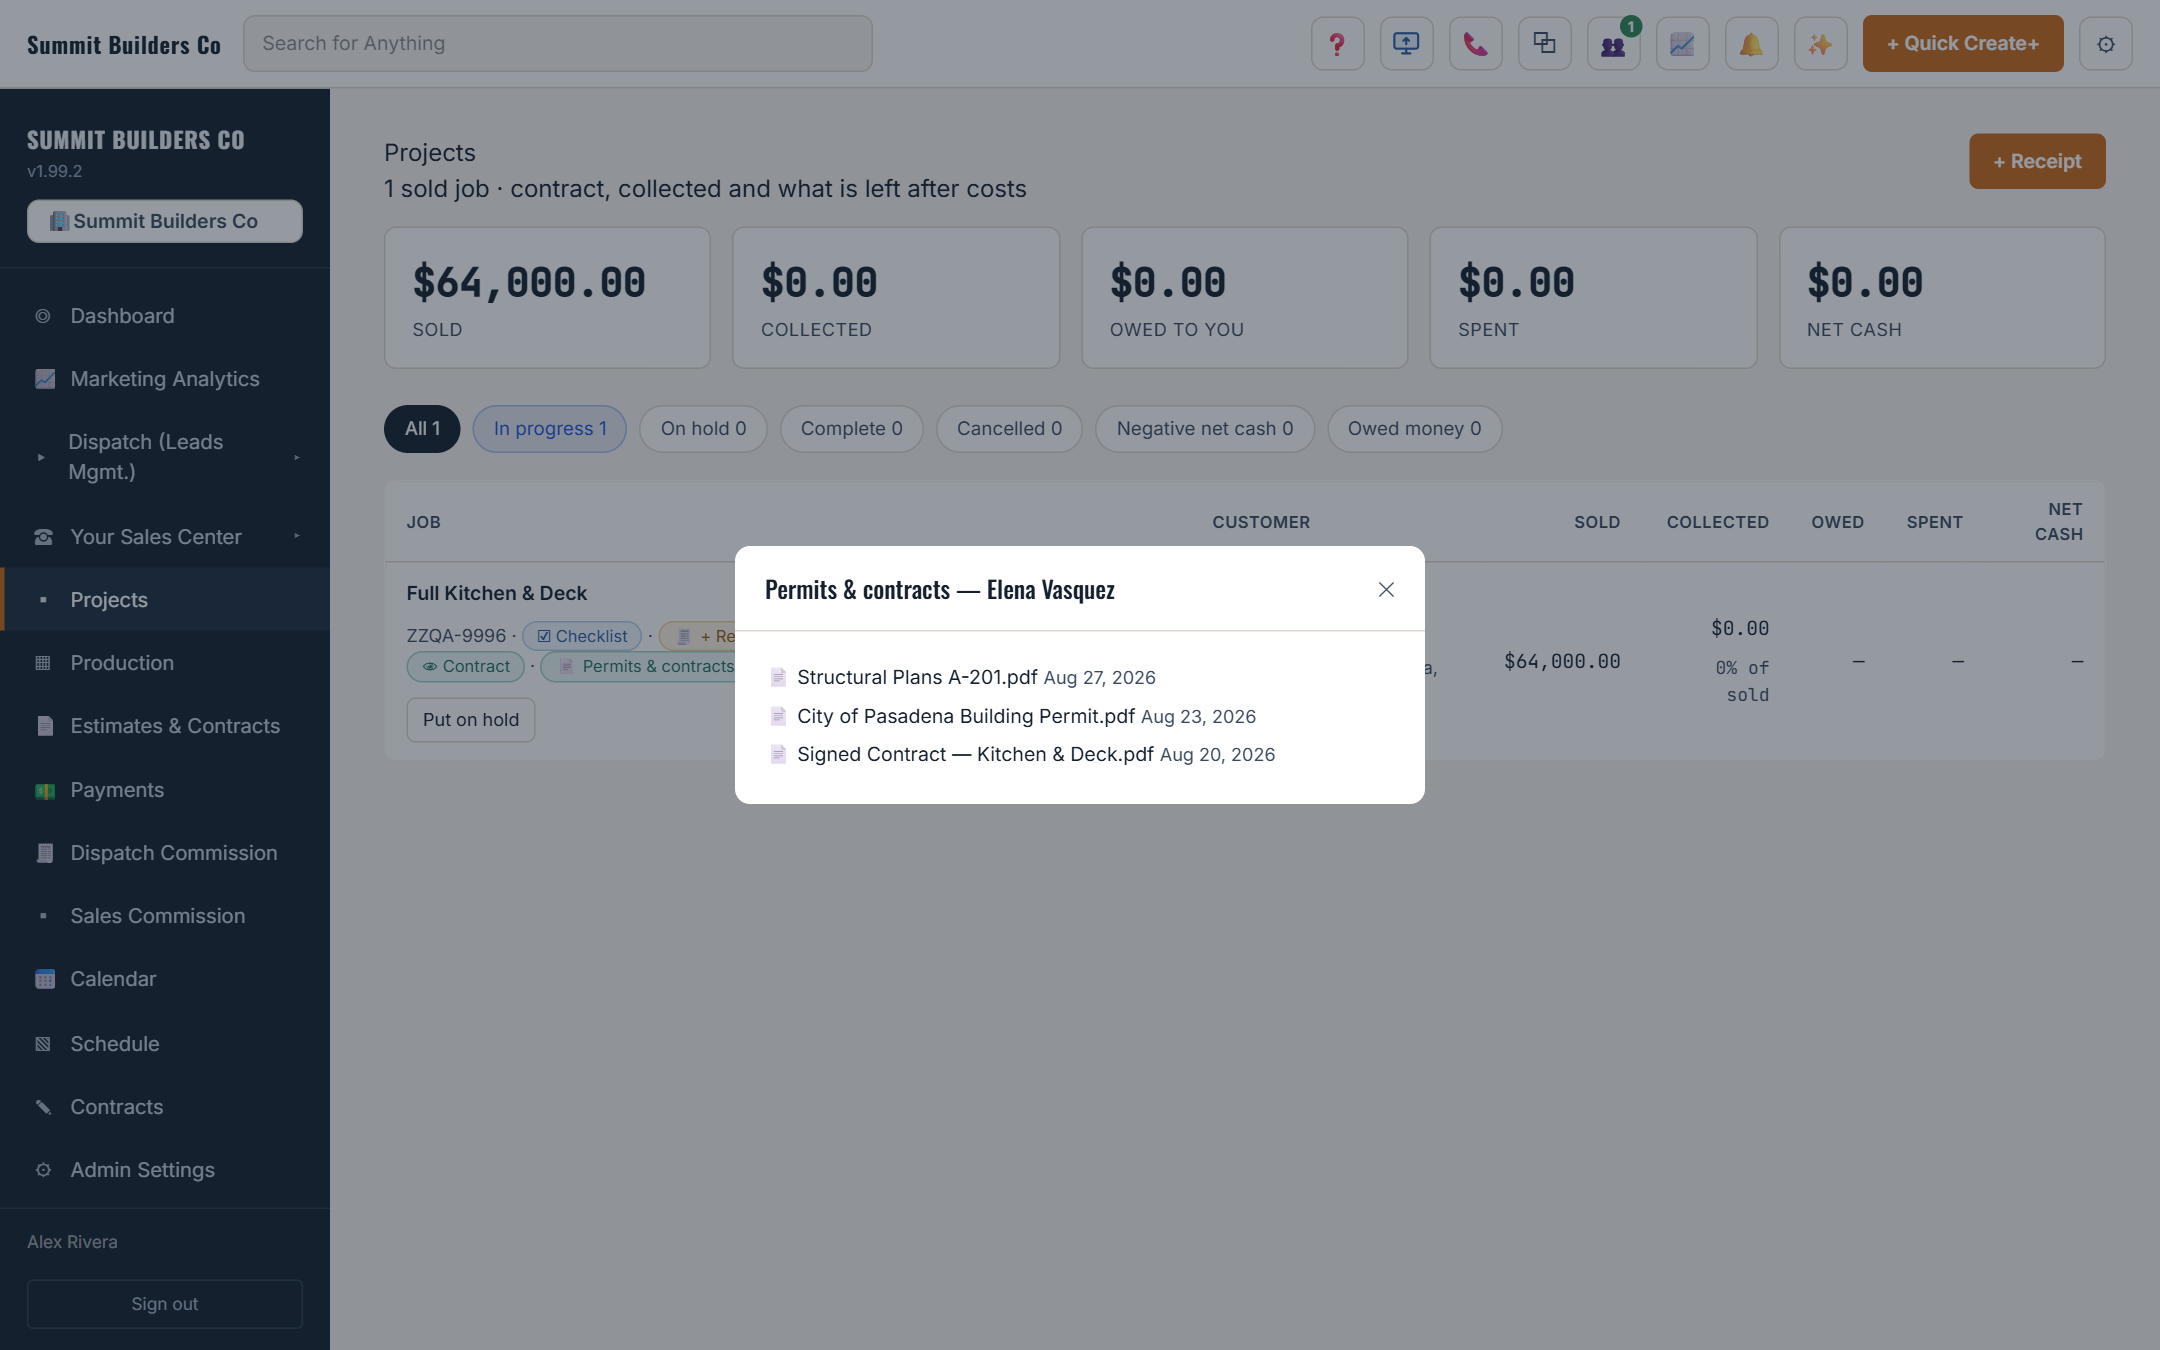
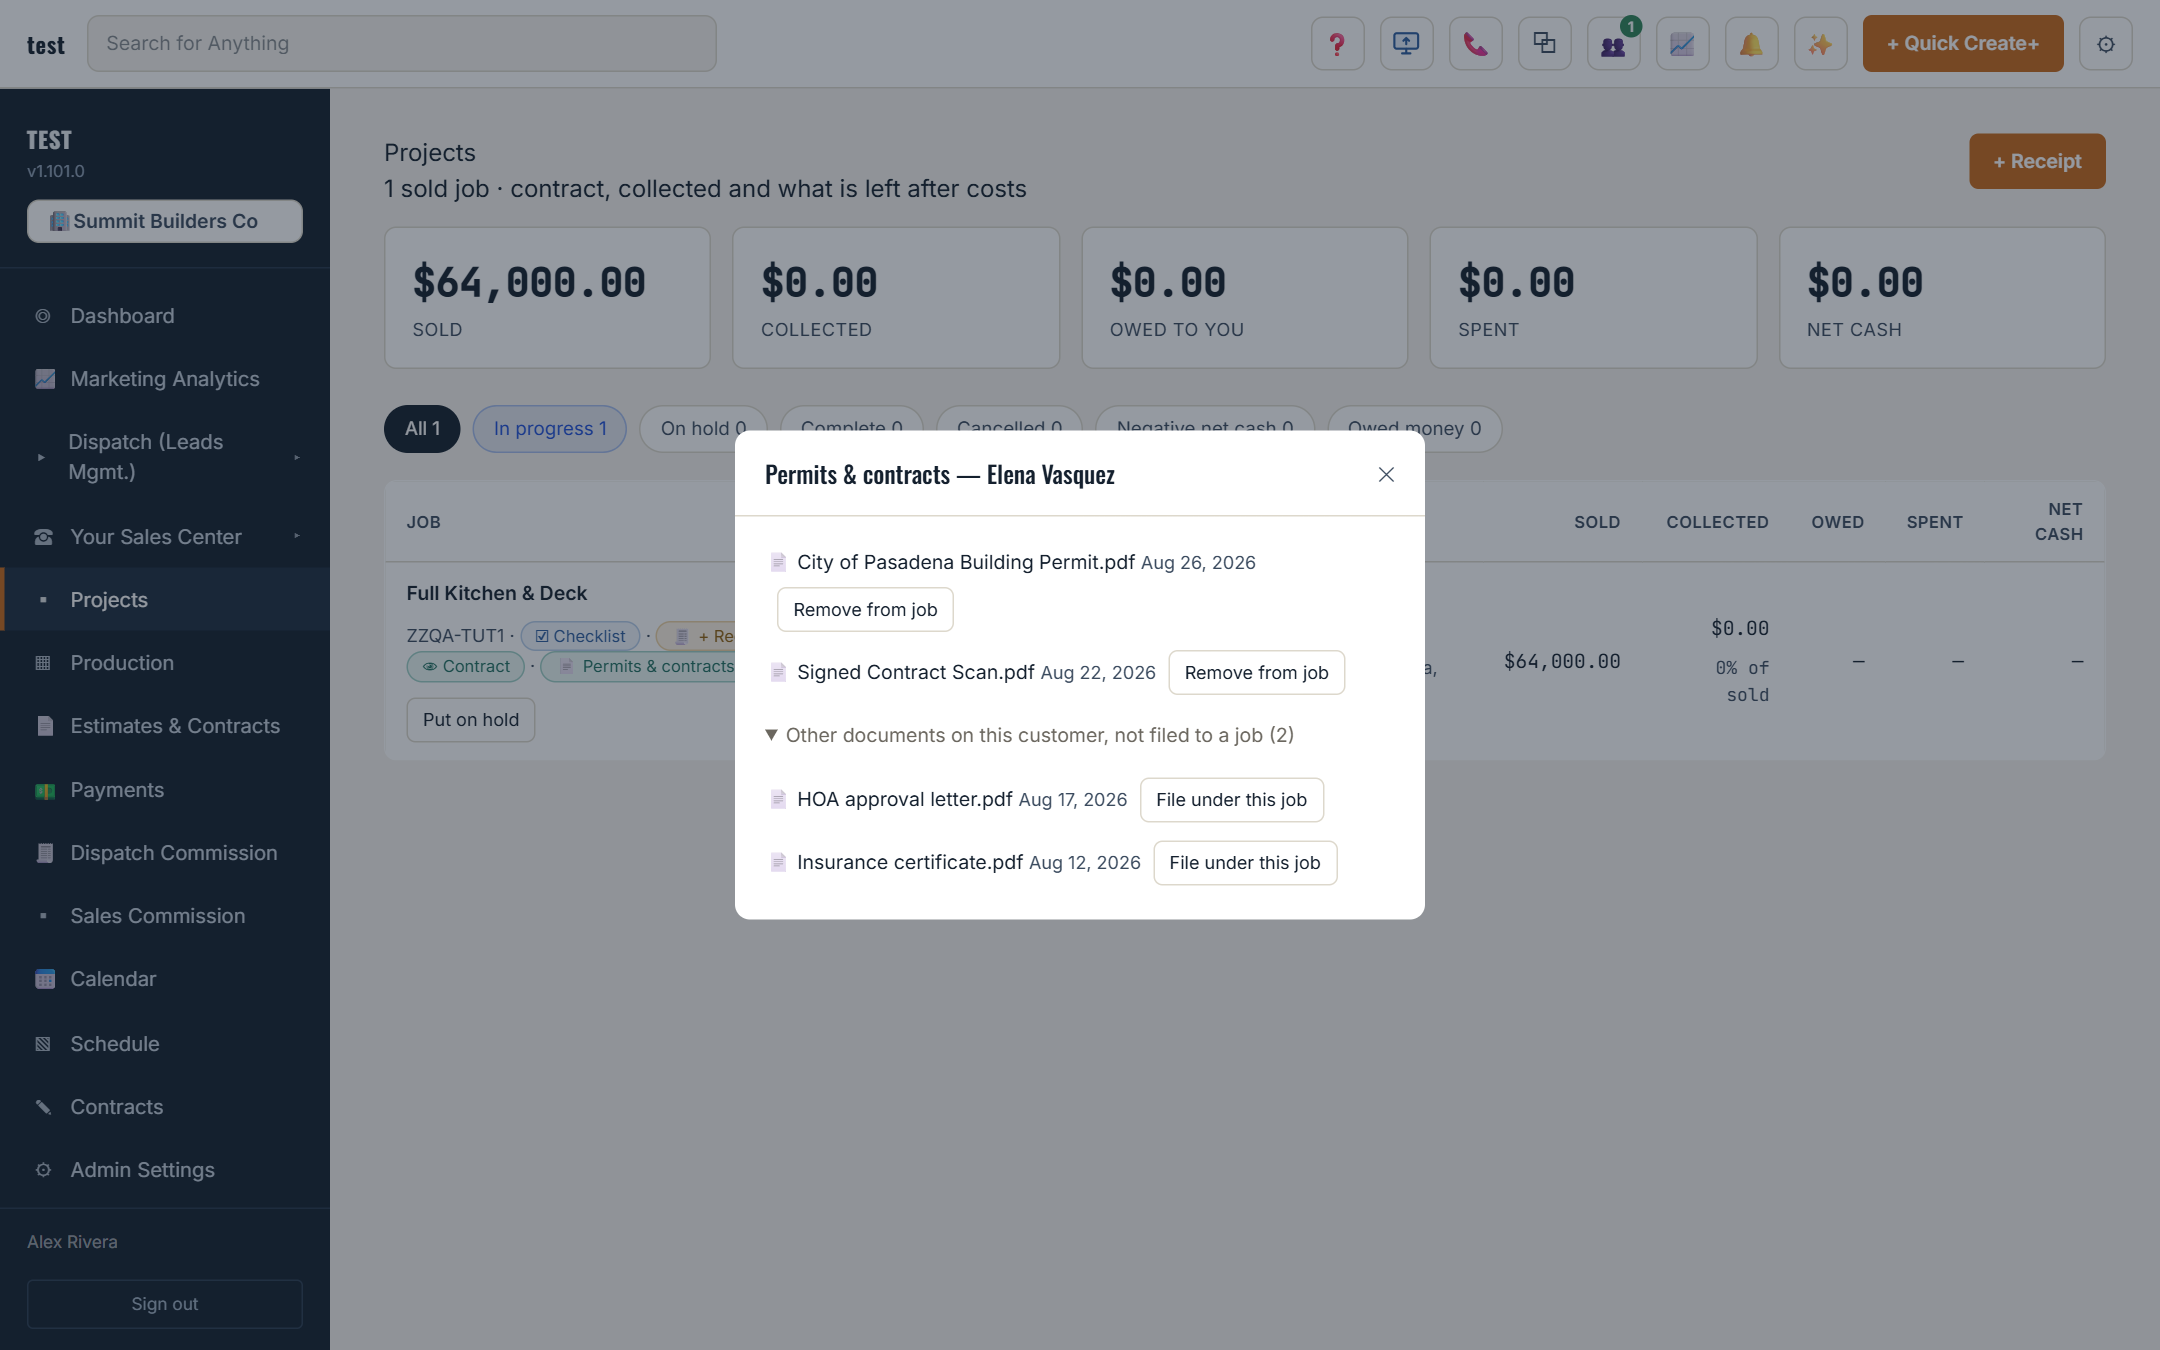
Tutorials teach the per-job filing
Asher said do it. The Permits & contracts step now shows the real
modal -- this job's filed documents with the unfiled fold open and its
File under this job buttons -- and says what the split means for a
customer with two jobs. The crew photos caption now teaches that a
shot files itself under the job it was taken from. Demo shot from the
staged Summit data, removed after.

diff --git a/src/app/(app)/tutorials/tutorials-view.tsx b/src/app/(app)/tutorials/tutorials-view.tsx
@@ -174,7 +174,7 @@ const LIBRARY: Category[] = [
         steps: [
           { img: T("projects"), caption: "Projects ranks sold jobs worst-first by money: contract, collected, owed, spent, and net cash. A job bleeding cash surfaces on its own." },
           { img: T("tut-row-receipts"), caption: "The teal chips on each row are shortcuts for Office, Admin and Production: Receipts lists every cost on the job with the receipt itself a hover away, and the eye chips open the contract — or any change order — exactly as the customer sees it." },
-          { img: T("tut-permits"), caption: "Permits & contracts opens the job's paperwork — the building permit, the signed contract scan, the plans — each one a click to open. Upload them once on the contact's Files tab and they're always one chip away from the job." },
+          { img: T("tut-permits"), caption: "Permits & contracts opens the job's own paperwork — only files filed under this contract, so a customer with two jobs never mixes their piles. Anything not filed yet waits below with a one-click File under this job, and Remove from job undoes a mistake." },
           { img: T("t-job-costs"), caption: "Open the contract and the Job costs panel files every receipt against its phase — so you see which part of the job is winning and which is eating the margin." },
         ],
       },
@@ -195,7 +195,7 @@ const LIBRARY: Category[] = [
         desc: "Give crew the Field role and their Projects page becomes a job list with exactly what they need.",
         steps: [
           { img: T("tut-crew-jobs"), caption: "A Field user opens Projects and sees their jobs — address, checklist, and two buttons. No contract amounts, no collections, no totals: the money isn't hidden from this page, it's never sent to it. They check off their own steps as work lands." },
-          { img: T("tut-crew-photos"), caption: "Photos opens the job's gallery. Take photo goes straight to the camera; everything lands in the job's file list and its Google Drive Photos folder — the same pictures the office attaches to change orders." },
+          { img: T("tut-crew-photos"), caption: "Photos opens this job's own gallery. Take photo goes straight to the camera, and every shot files itself under the job you took it from — a customer with two jobs keeps two separate galleries. It all lands in Google Drive too, the same pictures the office attaches to change orders." },
           { img: T("tut-crew-receipt"), caption: "+ Receipt on a job row opens with that job already picked: snap the receipt at the counter, amount, save. It files against the job's costs, and the form stays open for the next one in the stack." },
         ],
       },
